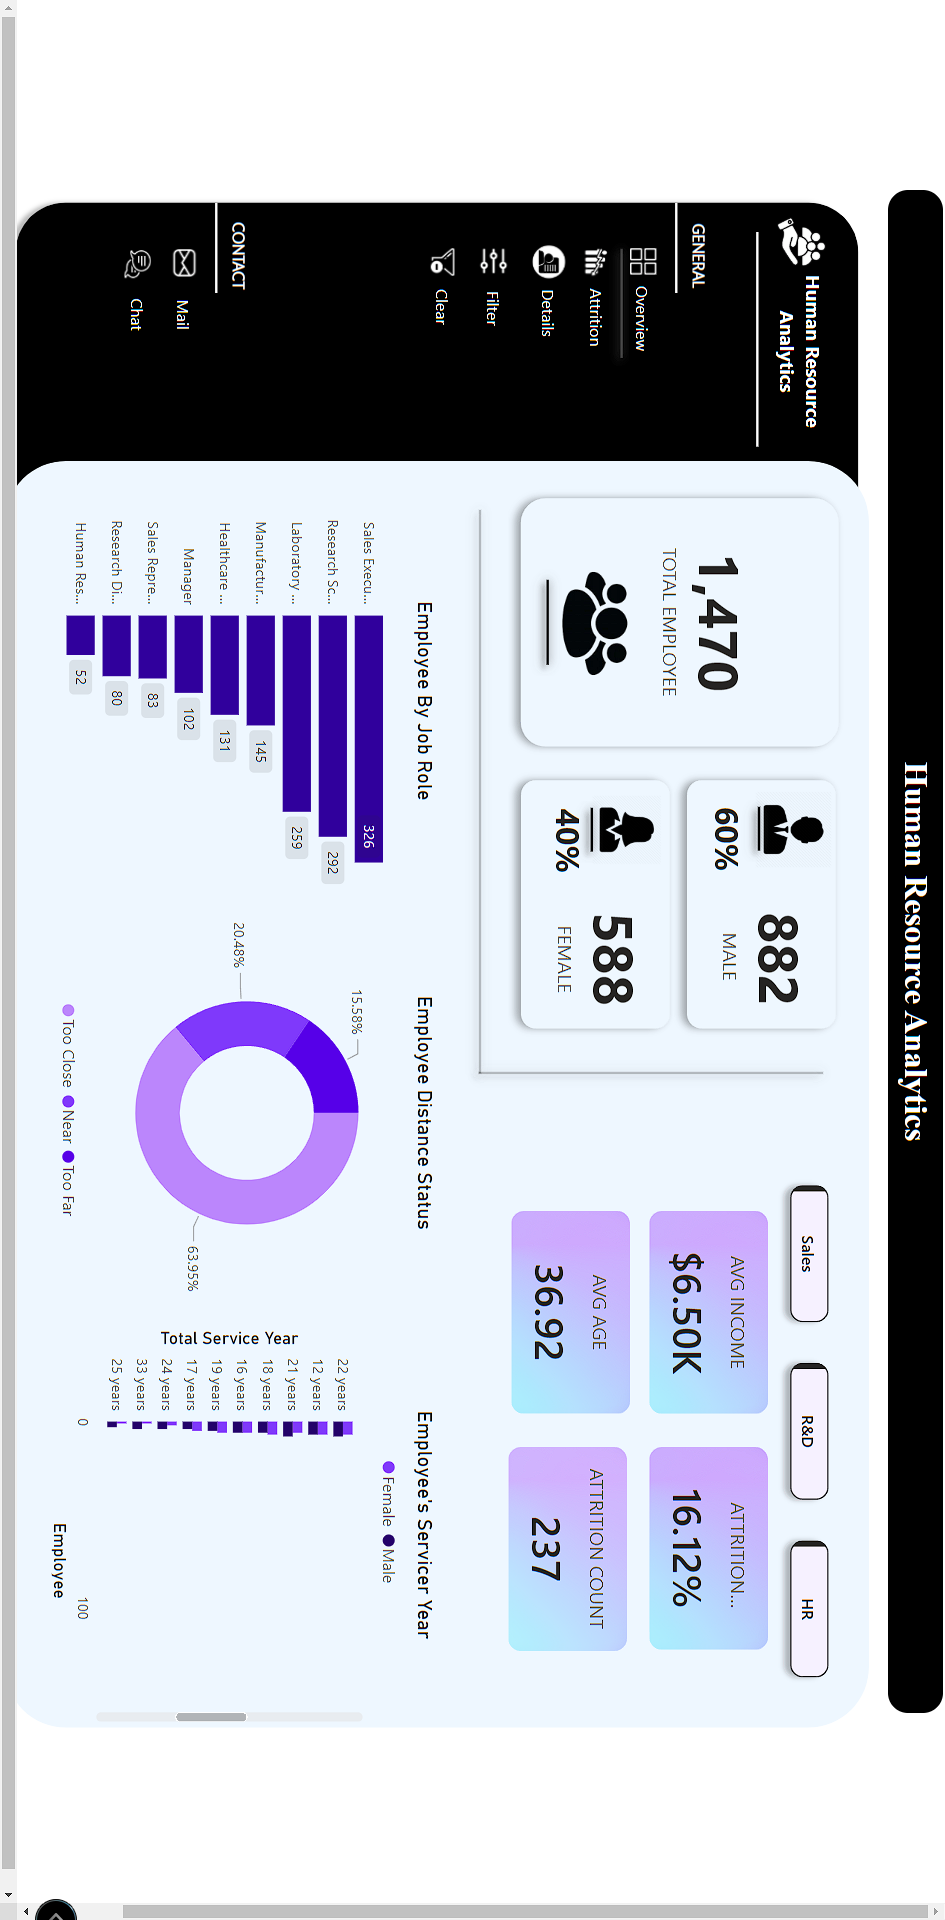
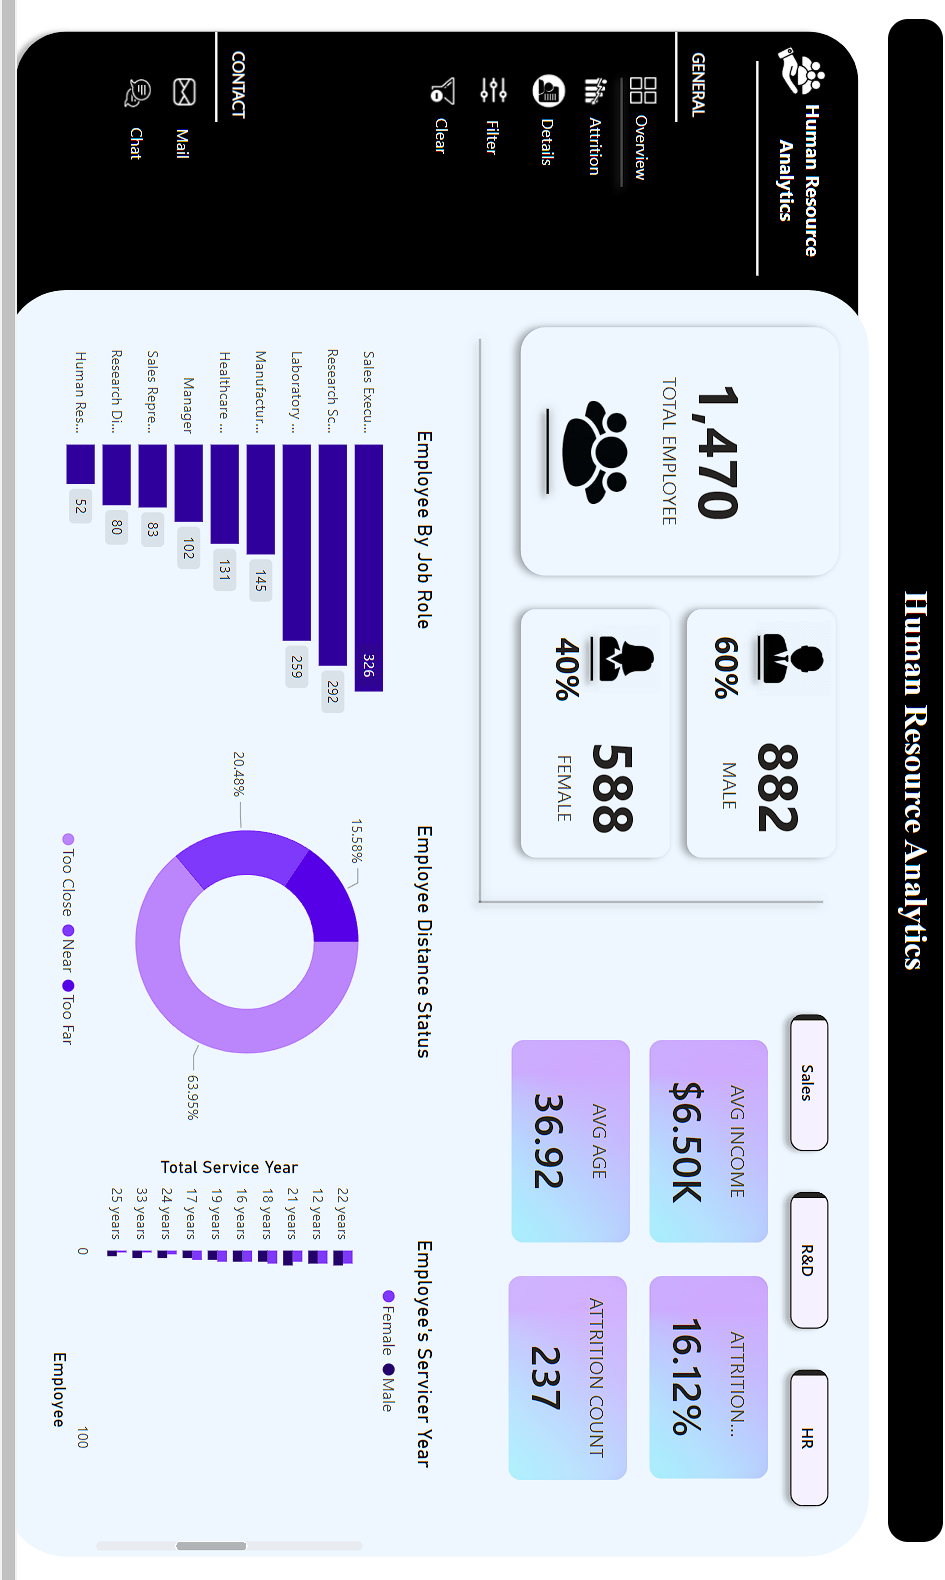
modify

diff --git a/constants.js b/constants.js
@@ -105,7 +105,7 @@ export const PROJECTS = [
     name: "Car Price Prediction",
     image: "/projects/carprice2.png",
     blurImage: "/projects/blur/carpriceblur.png", 
-    description: "Car Price Prediction using Python/Flask + Machine Learning 🚕",
+    description: "Car Price Prediction using - Python/Flask + Machine Learning 🚕",
     gradient: ["#F14658", "#DC2537"],
     url: "https://carprice-w4i6.onrender.com/",
     tech: ["python-svgrepo-com", "vs-code-svgrepo-com","css-3-svgrepo-com","machine-learning-03-svgrepo-com",  "flask-svgrepo-com",],
@@ -114,28 +114,46 @@ export const PROJECTS = [
     name: "RAG/Fine-tuning PDF Chat",
     image: "/projects/Ragpdf2.png",
     blurImage: "/projects/blur/ragblur.png",
-    description: "Mulit PDF Chat using Langchain + GenAI + OpenAI/Mistral/Ollama 🤖",
+    description: "Mulit PDF Chat using - Langchain + GenAI + OpenAI/Mistral/Ollama 🤖",
     gradient: ["#FFA62E", "#EA4D2C"],
     url: "https://super-chat-pdf.streamlit.app/",
     tech: ["openai-svgrepo-com","mistral-ai-icon", "tensorflow-svgrepo-com", "parrot-svgrepo-com","ollama"],
   },
   {
     name: "Medication Recommendation",
-    image: "/projects/medication1.png",
+    image: "/projects/medication3.png",
     blurImage: "/projects/blur/medicationblur.png",
-    description:"Medication recommendation using Python/Flask + ML/Scikit-Learn ⚕",
+    description:"Medication recommendation using - Python/Flask + ML/Scikit-Learn ⚕",
     gradient: ["#000066", "#6699FF"],
     url: "https://medication-recommendation.onrender.com/index.html",
     tech: ["vs-code-svgrepo-com", "python-svgrepo-com", "numpy-svgrepo-com","flask-svgrepo-com"],
   },
   {
+    name: "Blinkit Sales Analytics",
+    image: "/projects/blinkit.png",
+    blurImage: "/projects/blur/blinkitblur.png",
+    description: "Project using - PowerBI, Tableau, Python 📈",
+    gradient: ["#003300", "#66FF99"],
+    url: "https://blinkitanalytics.netlify.app/",
+    tech: ["tableau-software","power-bi-icon","excel-svgrepo-com","python-svgrepo-com"],
+  },
+  {
     name: "Face Emotion, Age, Gender Detection",
-    image: "/projects/face.png",
-    blurImage: "/projects/blur/faceA4.jpg",
-    description: "Project Using - OpenCV, Keras, Tensorflow,",
+    image: "/projects/face2.png",
+    blurImage: "/projects/blur/face2blur.png",
+    description: "Project using - OpenCV, Keras, Tensorflow, Python",
     gradient: ["#142D46", "#2E4964"],
     url: "https://github.com/shubh73/tesla",
     tech: ["opencv-svgrepo-com","tensorflow-svgrepo-com","flask-svgrepo-com","pytorch-svgrepo-com"],
+  },
+  {
+    name: "HR Analytics Dashboard",
+    image: "/projects/hr2.png",
+    blurImage: "/projects/blur/hrblur.png",
+    description: "Project using - PowerBI, Tableau, Python 📊",
+    gradient: ["#330033", "#9966FF"],
+    url: "https://hrdashboardanalytics.netlify.app/",
+    tech: ["tableau-software","python-svgrepo-com","power-bi-icon","excel-svgrepo-com"],
   },
 ];
 
@@ -187,9 +205,10 @@ export const PROJECTS = [
 export const WORK_CONTENTS = {
   DUKAAN: [
     {
-      title: "Dukaan",
+      title: "Stylio Store",
+      role: "(Founder & Owner)",
       description:
-        "Dukaan is a platform that enables businesses to launch their online stores at ease.",
+        "An online platform offering a wide range of high-quality products, designed to provide customers with a seamless and convenient shopping experience",
       content: (
         <div className="h-full w-full flex items-center justify-center text-white px-4">
           Revolutionizing commerce, one click at a time
@@ -199,39 +218,43 @@ export const WORK_CONTENTS = {
     {
       title: "Transformation",
       description:
-        "Since 2023, the Dukaan Seller Dashboard struggled with technical issues and a broken user experience due to accumulated technical debt. Leading a team of two junior developers, we migrated the dashboard from CSR to SSR, redesigned the UI, and overhauled the codebase in the process. This resolved the technical debt and vastly improved the user experience, making it Dukaan's largest and most impactful migration.",
+        "In 2023, our dropshipping platform, based in India, faced challenges with product availability and customer experience. Leading a small team, we streamlined our product selection, improved order tracking, and optimized the website for faster checkouts. These updates enhanced customer satisfaction, reduced delays, and helped us grow by offering the latest trendy products more efficiently to Indian customers.",
       content: (
         <div className="h-full w-full flex items-center justify-center text-white px-4">
-          Senior Frontend Engineer
+          Founder & Owner
         </div>
       ),
     },
     {
       title: "Evolution",
       description:
-        "Recognizing the need for improved performance and user engagement, I spearheaded the migration of the Dukaan App from native to React-Native for iOS and Android platforms. This strategic move led to a X% enhancement in app performance and a Y% boost in user engagement, representing a significant milestone in the app's evolution.",
+        "Since launching in India, our dropshipping business has evolved by expanding product offerings, improving website functionality, and streamlining order fulfillment to deliver a better shopping experience.",
       content: (
         <div className="h-full w-full flex items-center justify-center text-white px-4">
-          Frontend Engineer
+          Founder & Owner
         </div>
       ),
     },
     {
       title: "Optimization",
       description:
-        "Leveraging user feedback and analytics, I improved the seller web dashboard design, reducing bounce rates. Simultaneously, I overhauled the build process, slashing bundle size and boosting overall performance.",
+        "We continuously optimize our dropshipping platform by refining product selection, improving website speed, and enhancing order tracking to ensure a smooth and efficient shopping experience for customers.",
       content: (
         <div className="h-full w-full flex items-center justify-center text-white px-4">
-          Frontend Engineer Intern
+          Founder & Owner
         </div>
       ),
     },
   ],
+
+
+
   AVIATE: [
     {
-      title: "Aviate",
+      title: "Zscaler",
+      role: "(Virtual Intern)",
       description:
-        "Aviate is a preparation and mentorship platform for job-seekers that are seeking non-technical roles across top companies",
+        "Zero Trust Cloud Security Virtual Internship at Zscaler (AICTE Provider)",
       content: (
         <div className="h-full w-full flex items-center justify-center text-white px-4">
           Finding the right job isn&apos;t fate, it&apos;s navigation
@@ -239,31 +262,36 @@ export const WORK_CONTENTS = {
       ),
     },
     {
-      title: "Innovation",
+      title: "Skills Acquired",
       description:
-        "I spearheaded the development of Q-Rate, their flagship product, a voice-based applicant screening platform. Moreover, I took initiatives to enhance user engagement and drive substantial increases in daily traffic. Additionally, I implemented an error-logging and bug reporting system, significantly diminishing user-reported bugs.",
+        "During the Zero Trust Cloud Security Virtual Internship, I gained a strong understanding of cloud security principles, including Zero Trust architecture, access control, and network traffic monitoring. I developed skills in implementing security protocols, protecting data, and managing access within cloud environments, all while enhancing my knowledge of modern cybersecurity practices.",
       content: (
         <div className="h-full w-full flex items-center justify-center text-white px-4">
-          Frontend Developer Intern
+          Virtual Intern
         </div>
       ),
     },
   ],
+
+
+
   SPACENOS: [
     {
-      title: "Spacenos",
+      title: "Application Square Infotech Pvt Ltd",
+      role: "(Web Developer Intern)",
+
       description:
-        "A dynamic startup dedicated to creating innovative products that make the world a better place.",
+        "Application Square Infotech is a web development startup specializing in scalable, user-friendly web solutions using React, Flask, and modern technologies.",
       content: (
         <div className="h-full w-full flex items-center justify-center text-white px-4">
-          We build apps that solve problems for the next billion people
+          During my internship, I contributed to developing responsive web pages using HTML, CSS, and JavaScript, while also working with Bootstrap for UI design. I built interactive features and applications using React and Flask, optimizing the user experience and ensuring functionality across devices.
         </div>
       ),
     },
     {
-      title: "Trailblazing",
+      title: "Contribution",
       description:
-        "I led the comprehensive overhaul of the Admin Portal, implementing CRUD features for all services and providers. Additionally, I architected a feature enabling precise customer location tracking and delivering insightful usage statistics. Through optimized and compressed file serving, I catalyzed a remarkable Yx increase in page speed, resulting in a X% boost in customer retention.",
+        "I contributed to building responsive websites using HTML, CSS, JavaScript, and Bootstrap. I developed interactive features with React and Flask, optimizing performance and enhancing user experience through collaboration with the team.",
       content: (
         <div className="h-full w-full flex items-center justify-center text-white px-4">
           Web Developer Intern
@@ -271,6 +299,10 @@ export const WORK_CONTENTS = {
       ),
     },
   ],
+
+
+
+
 };
 
 export const GTAG = "G-5HCTL2TJ5W";

diff --git a/components/Work/Work.js b/components/Work/Work.js
@@ -11,8 +11,8 @@ const Work = ({ isDesktop }) => {
   const tabItems = useMemo(
     () => [
       {
-        title: "Dukaan",
-        value: "dukaan",
+        title: "STYLIO",
+        value: "stylio store",
         content: (
           <StickyScroll
             isDesktop={isDesktop}
@@ -21,8 +21,8 @@ const Work = ({ isDesktop }) => {
         ),
       },
       {
-        title: "Aviate",
-        value: "Aviate",
+        title: "ZSCALER",
+        value: "zscaler",
         content: (
           <StickyScroll
             isDesktop={isDesktop}
@@ -31,8 +31,8 @@ const Work = ({ isDesktop }) => {
         ),
       },
       {
-        title: "Spacenos",
-        value: "spacenos",
+        title: "APPLICATION SQUARE",
+        value: "Application square infotech pvt ltd",
         content: (
           <StickyScroll
             isDesktop={isDesktop}

diff --git a/components/Work/StickyScroll/StickyScroll.js b/components/Work/StickyScroll/StickyScroll.js
@@ -77,7 +77,24 @@ const StickyScroll = ({ contentItems }) => {
                   className="text-2xl font-bold text-slate-100"
                 >
                   {item.title}
+
                 </motion.h2>
+
+                <motion.h5
+                  initial={{
+                    opacity: 0,
+                  }}
+                  animate={{
+                    opacity: activeCard === index ? 1 : 0.3,
+                  }}
+                  className="text-1xl text-slate-50"
+                >
+                  {item.role}
+
+                </motion.h5>
+
+
+
                 <motion.p
                   initial={{
                     opacity: 0,

diff --git a/components/Projects/Projects.js b/components/Projects/Projects.js
@@ -99,8 +99,8 @@ const Projects = ({ isDesktop, clientHeight }) => {
             My Projects
           </h1>
           <h2 className="text-[1.65rem] font-medium md:max-w-lg max-w-sm mt-2 staggered-reveal">
-            Some things I&apos;ve built with love, expertise and a pinch of
-            magical ingredients.{" "}
+          Innovative projects that highlight my expertise,
+          Where ideas and data science converge.{" "}
           </h2>
         </div>
         <div
